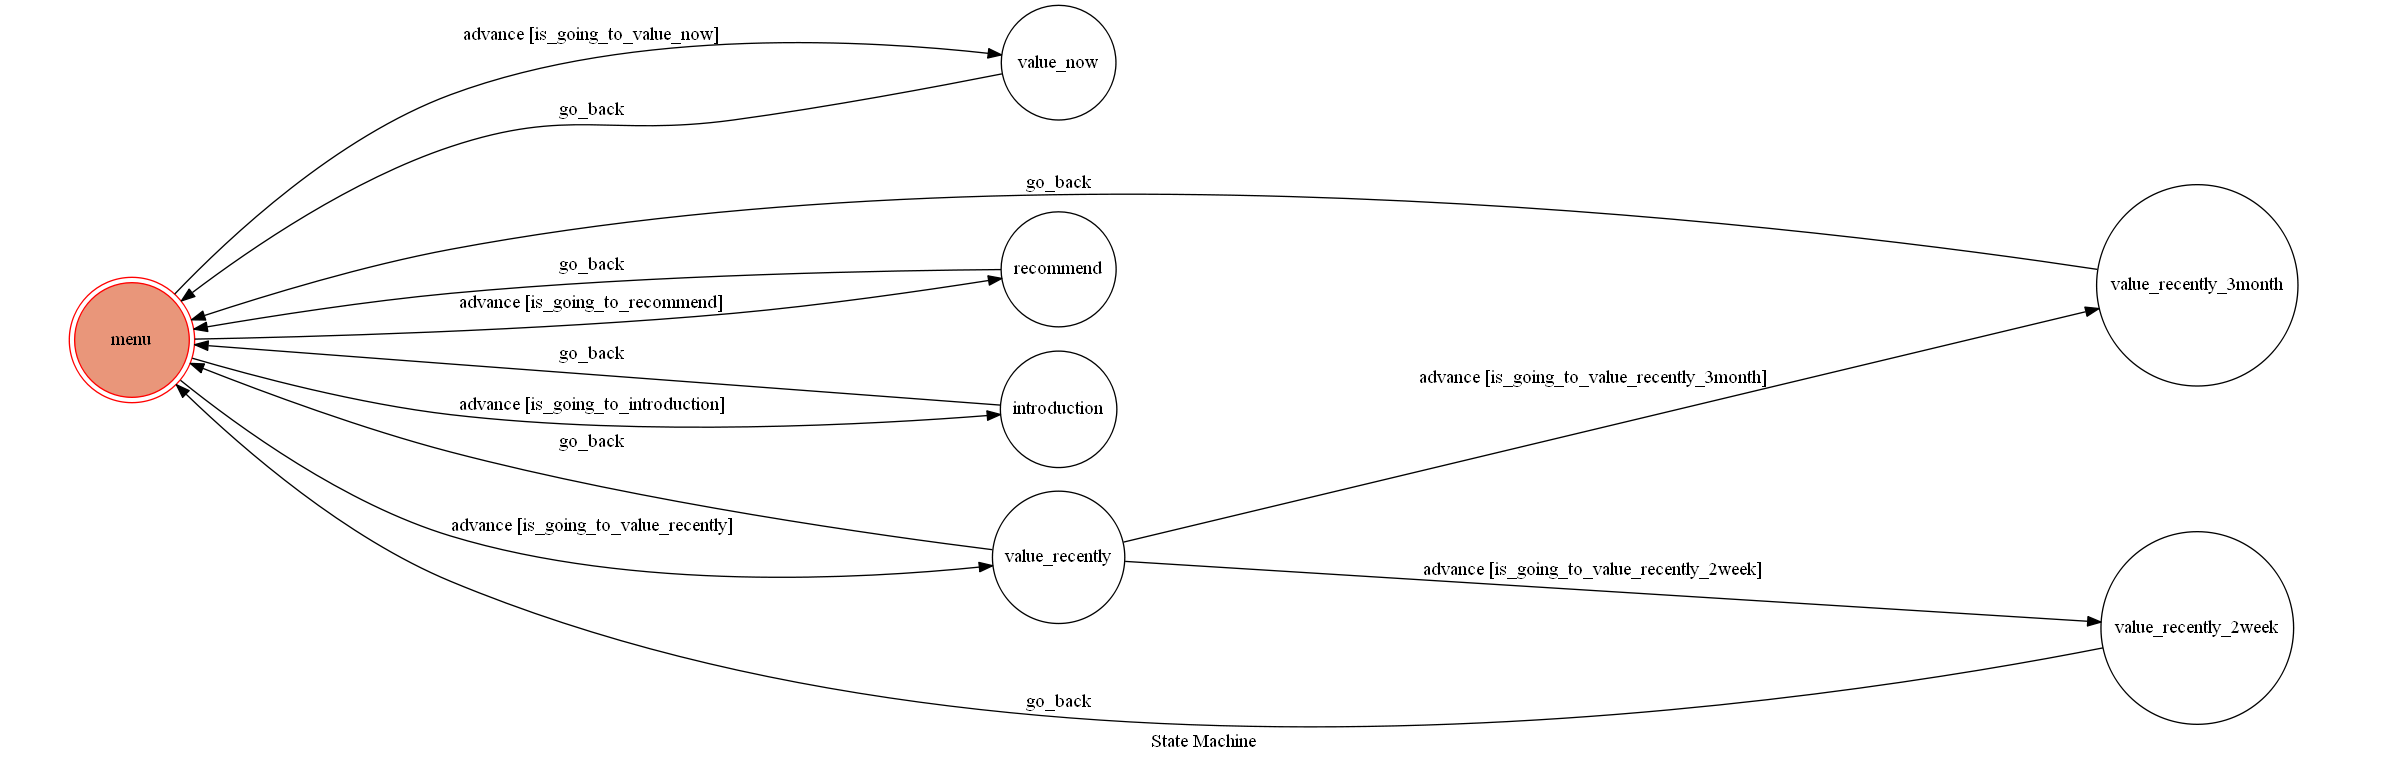
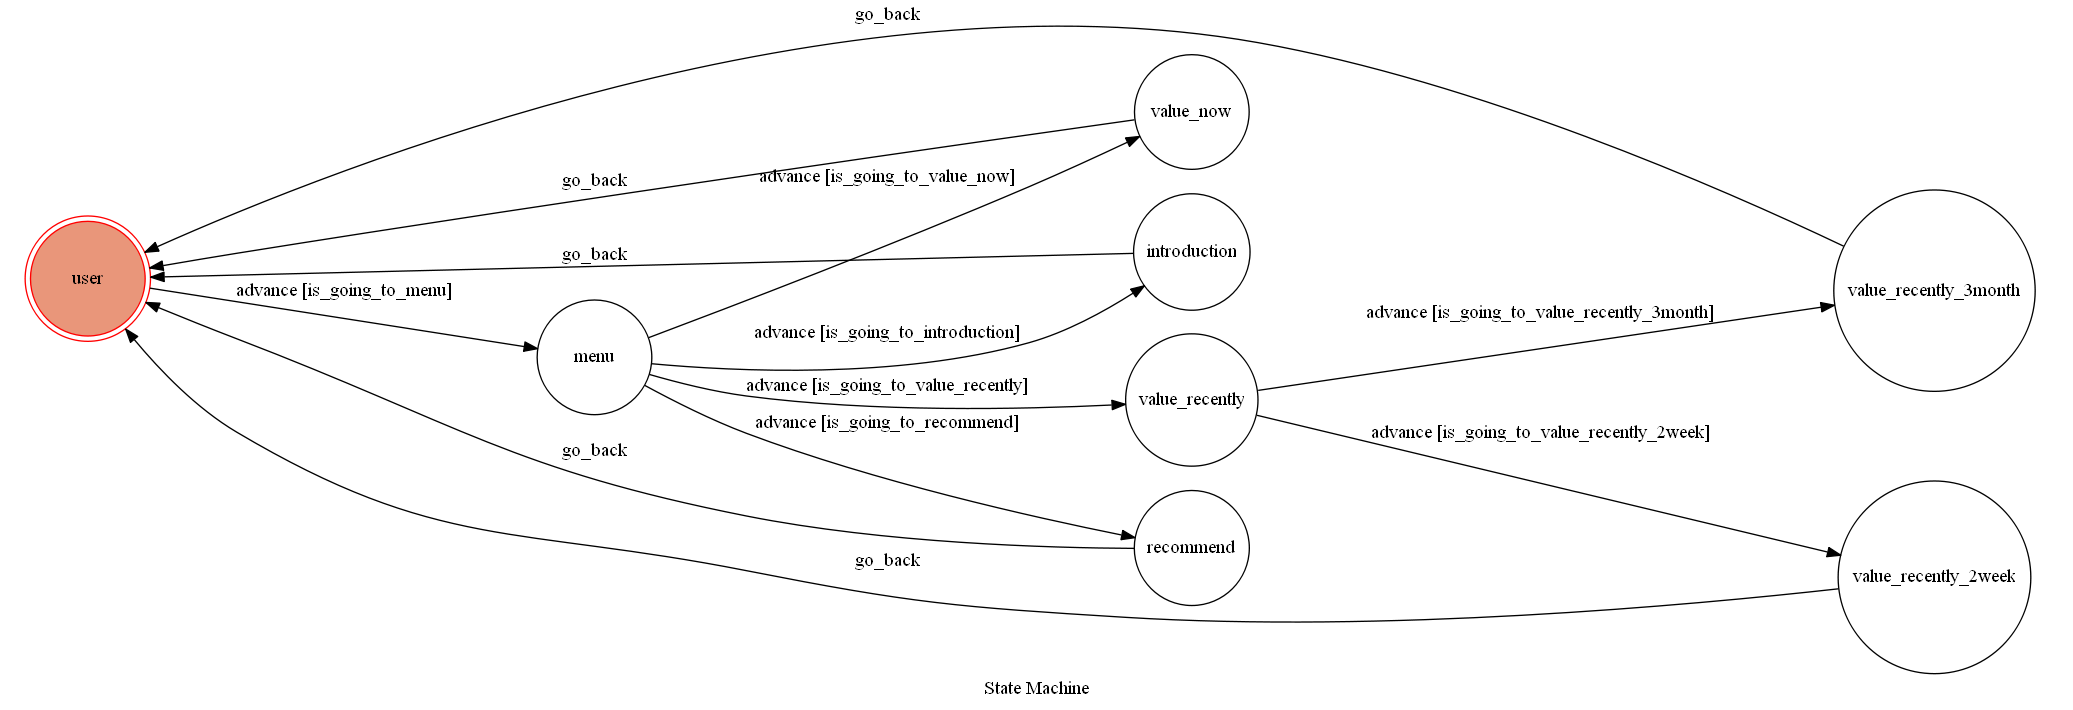
Add initial user state

diff --git a/fsm.py b/fsm.py
@@ -111,6 +111,10 @@ class TocMachine(GraphMachine):
     def __init__(self, **machine_configs):
         self.machine = GraphMachine(model=self, **machine_configs)
 
+    def is_going_to_menu(self, event):
+        text = event.message.text
+        return text == "呼叫主選單"
+
     def is_going_to_value_now(self, event):
         text = event.message.text
         return text == "查詢即時匯率"
@@ -135,13 +139,14 @@ class TocMachine(GraphMachine):
         text = event.message.text
         return text == "功能介紹與說明"
 
+    def on_enter_menu(self, event):
+        reply_token = event.reply_token
+        send_text_message(reply_token, "開啟主選單")
+
     def on_enter_value_now(self, event):
         reply_token = event.reply_token
         send_text_message(reply_token, "查詢即時值")
         self.go_back()
-
-    def on_exit_value_now(self):
-        print("enter 1")
 
     def on_enter_value_recently(self, event):
         reply_token = event.reply_token
@@ -154,9 +159,6 @@ class TocMachine(GraphMachine):
         send_text_message(reply_token, "3個月")
         self.go_back()
 
-    def on_exit_value_recently_3month(self):
-        print("enter 3")
-
     def on_enter_value_recently_2week(self, event):
         reply_token = event.reply_token
         # pic_url = get_url_2week()
@@ -164,22 +166,13 @@ class TocMachine(GraphMachine):
         send_text_message(reply_token, "2週")
         self.go_back()
 
-    def on_exit_value_recently_2week(self):
-        print("enter 4")
-    
     def on_enter_recommend(self, event):
         reply_token = event.reply_token
         send_text_message(reply_token, "推薦兌幣與否")
         self.go_back()
-
-    def on_exit_recommend(self):
-        print("enter 5")
 
     def on_enter_introduction(self, event):
         reply_token = event.reply_token
         send_text_message(reply_token, "功能介紹與說明")
         self.go_back()
 
-    def on_exit_introduction(self):
-        print("enter 6")
-        

diff --git a/app.py b/app.py
@@ -14,10 +14,16 @@ load_dotenv()
 
 
 machine = TocMachine(
-    states=["menu", "value_now", "value_recently",
+    states=["user", "menu", "value_now", "value_recently",
     "value_recently_3month", "value_recently_2week",
     "recommend", "introduction"],
     transitions=[
+        {
+            "trigger": "advance",
+            "source": "user",
+            "dest": "menu",
+            "conditions": "is_going_to_menu",
+        },
         {
             "trigger": "advance",
             "source": "menu",
@@ -54,9 +60,9 @@ machine = TocMachine(
             "dest": "introduction",
             "conditions": "is_going_to_introduction",
         },
-        {"trigger": "go_back", "source": ["value_now", "value_recently", "value_recently_3month", "value_recently_2week", "recommend", "introduction"], "dest": "menu"},
+        {"trigger": "go_back", "source": ["value_now", "value_recently_3month", "value_recently_2week", "recommend", "introduction"], "dest": "user"},
     ],
-    initial="menu",
+    initial="user",
     auto_transitions=False,
     show_conditions=True,
 )
